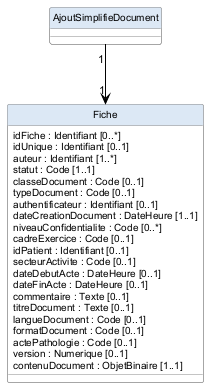
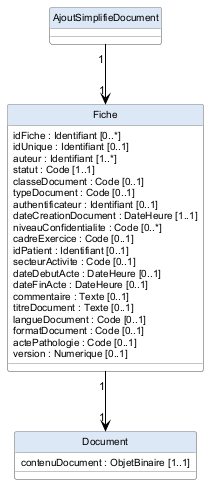
correctif

diff --git a/input/pagecontent/sf_ajout_simplifie.md b/input/pagecontent/sf_ajout_simplifie.md
@@ -53,8 +53,18 @@
 </div>
 <br>
 
+#### Classe "Document"
+
+Un document est la plus petite unité d'information déposée dans l'infrastructure de partage de documents. Dans le cadre de l'ajout simplifié, le contenu du document est directement inclus dans la fiche (et non transmis dans une ressource séparée).
+
+| **Nom** | **Description** |
+| ----- | ----- |
+| contenuDocument : [1..1] ObjetBinaire | Contient le document au format binaire. |
+
+**Table 30 Attributs de la classe "Document"**
+
 #### Classe "Fiche"
-Une fiche représente le document stocké dans l'infrastructure de partage de documents. Elle contient les informations décrivant les caractéristiques principales d'un document servant au classement et à la recherche des documents. Dans le cadre de l'ajout simplifié, le contenu du document est directement inclus dans la fiche.
+Une fiche représente le document stocké dans l'infrastructure de partage de documents. Elle contient les informations décrivant les caractéristiques principales d'un document servant au classement et à la recherche des documents.
 
 | **Nom** | **Description** |
 | ----- | ----- |
@@ -78,9 +88,8 @@ Une fiche représente le document stocké dans l'infrastructure de partage de do
 | formatDocument : [0..1] Code | Format technique détaillé du document.<br/>Nomenclatures utilisées :<br/>TRE_A06-FormatCodeComplementaire<br/>TRE_A09-DICOMuidRegistry<br/>TRE_A10-NomenclatureURN<br/>TRE_A11-IheFormatCode<br/>ASS_X11-CorresModeleCDA-XdsFormatCode-CISIS<br/>ASS_A12-CorresMediaTypeCDANonStructure-XdsFormatCode-CISIS |
 | actePathologie : [0..1] Code | Actes et pathologies en rapport avec le document.<br/>Nomenclatures utilisées :<br/>** CCAM pour les actes médicaux (OID="1.2.250.1.213.2.5");<br/>** CIM-10 pour les diagnostics de pathologie (OID="2.16.840.1.113883.6.3");<br/>** TRE_A00-ProducteurDocNonPS pour les documents d'expression personnelle du patient. |
 | version : [0..1] Numerique | Numéro de version de la fiche d'un document. La valeur de la métadonnée version est égale à 1 pour la première version de la fiche. |
-| contenuDocument : [1..1] ObjetBinaire | Contient le document au format binaire. Contrairement à l'ajout de lot de documents, le contenu est directement inclus dans la fiche et non transmis dans une ressource séparée. |
 
-**Table 30 Attributs de la classe "Fiche"**
+**Table 31 Attributs de la classe "Fiche"**
 
 
 ### Flux 10 - ResultatAjoutSimplifieDocument MODELISATION DES FLUX D'INFORMATIONS
@@ -99,4 +108,4 @@ Une fiche représente le document stocké dans l'infrastructure de partage de do
 | ----- | ----- |
 | statutAttributFiche : [0..*] Texte | La réponse de la demande d'ajout simplifié d'un document peut contenir une fiche qui contient le statut (réussite ou échec) de chaque attribut renseigné lors de la demande d'ajout. |
 
-**Table 31 Attributs de la classe "Fiche"**
+**Table 32 Attributs de la classe "Fiche"**